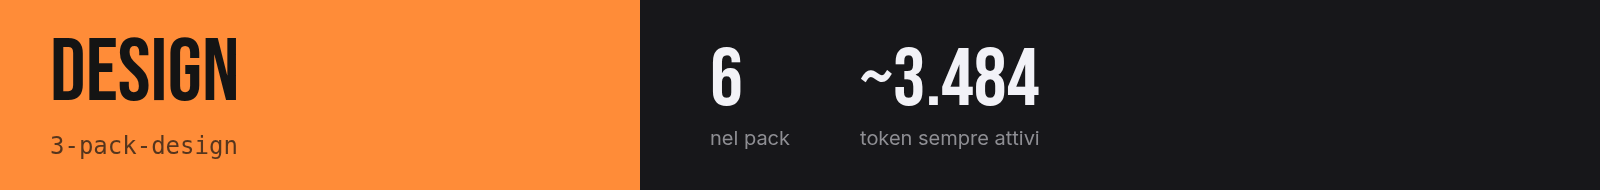
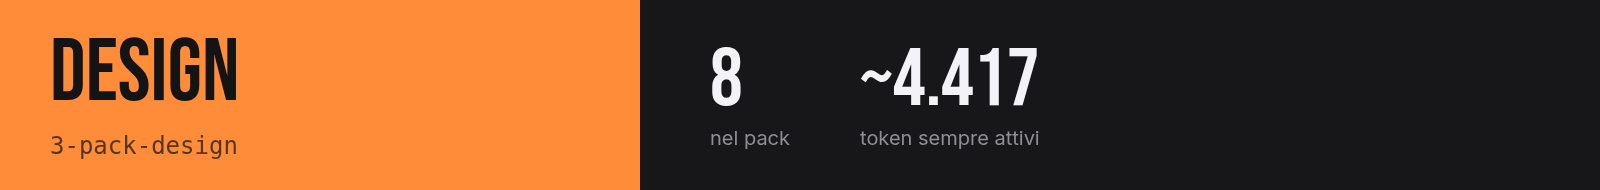
feat: add awwwards-mcp and awwwards-skills to the Design pack
Claude-Session: https://claude.ai/code/session_015vXQvcgbemsZy1L9YqWUro

Changed region(s): [[0.5625, 0.2368, 0.6562, 0.5526], [0.4375, 0.3158, 0.4688, 0.4211]]

diff --git a/README.it.md b/README.it.md
@@ -32,14 +32,14 @@ claude plugin install <plugin>@giofornari      # aggiungi --scope project per in
 claude plugin list                             # verifica: <plugin>@giofornari risulta abilitato
 ```
 
-Poi `/reload-plugins` o riavvia la sessione. I nomi dei plugin sono nelle tabelle qui sotto, oppure `claude plugin list --available --json`. Prima leggi i [Prerequisiti](#prerequisiti) per `codegraph`, `graphify`, `camoufox`, `agent-reach` e `openmontage`.
+Poi `/reload-plugins` o riavvia la sessione. I nomi dei plugin sono nelle tabelle qui sotto, oppure `claude plugin list --available --json`. Prima leggi i [Prerequisiti](#prerequisiti) per `codegraph`, `awwwards-mcp`, `graphify`, `camoufox`, `agent-reach` e `openmontage`.
 
 ## Come funziona
 
 | Percorso | Ruolo |
 |---|---|
 | `.claude-plugin/marketplace.json` | Il catalogo e unica fonte di verità: prima i pack, poi i plugin per categoria |
-| `plugins/` | Solo ciò che è mio: gli 8 manifest dei pack, l'essenziale `fundamentals`, `codegraph` (wrapper MCP), `camoufox` (server MCP), `graphify` (skill di setup) |
+| `plugins/` | Solo ciò che è mio: gli 8 manifest dei pack, l'essenziale `fundamentals`, `codegraph` e `awwwards-mcp` (wrapper MCP), `camoufox` (server MCP), `graphify` (skill di setup) |
 | `docs/` | Le immagini di questo README |
 
 Le voci sono di cinque tipi:
@@ -60,7 +60,7 @@ Le voci sono di cinque tipi:
 |---|---|---|
 | `1-pack-fundamentals` | 8 plugin | ~3.704 |
 | `2-pack-context-memory` | 4 plugin | ~3.710 |
-| `3-pack-design` | 6 plugin | ~3.484 |
+| `3-pack-design` | 8 plugin | ~4.417 |
 | `4-pack-design-advanced` | 4 plugin | ~1.481 |
 | `5-pack-learning` | 4 plugin | ~1.648 |
 | `6-pack-research` | 4 plugin | ~1.214 |
@@ -129,6 +129,8 @@ Nel pack c'è anche `claude-mem`. Viene dal suo marketplace (`thedotmack`), elen
 | [`ui-ux-pro-max`](https://github.com/nextlevelbuilder/ui-ux-pro-max-skill) | Intelligenza di design: stili, palette, tipografia e linee guida UX consultabili | 7 skill | ~709 |
 | [`made-to-stick`](https://github.com/wondelai/skills/tree/HEAD/made-to-stick) | Scrivi messaggi che vengono capiti, ricordati e portano all'azione con la checklist SUCCESs | 1 skill | ~158 |
 | [`benjitaylor-skills`](https://github.com/benjitaylor/skills) | Stageshow: interfacce di prodotto finte ma credibili, come immagini fisse, card di funzionalità, demo con cursore e bento grid, in React | 1 skill | ~160 |
+| [`awwwards-mcp`](./plugins/awwwards-mcp) | Awwwards MCP: ispirazione di design dai siti premiati, con screenshot reali, DNA del design e catture dal vivo | MCP | ~0 |
+| [`awwwards-skills`](https://github.com/INSANE0777/awwwards-skills) | Skill per awwwards-mcp: ricreare un sito, studio del movimento, ciclo per sezioni, DESIGN.md, setup e riparazione | 8 skill | ~933 |
 
 ### Design Advanced
 
@@ -205,6 +207,7 @@ Nel pack c'è anche `claude-mem`. Viene dal suo marketplace (`thedotmack`), elen
 ## Prerequisiti
 
 - `codegraph`: serve la sua CLI, `npm install -g @colbymchenry/codegraph`. Il plugin registra solo il server MCP.
+- `awwwards-mcp`: serve Node 22.13+. Il plugin esegue `npx -y awwwards-mcp`, che copre gli strumenti di ricerca e analisi. Gli strumenti di cattura e registrazione richiedono anche Playwright e ffmpeg-static installati globalmente; la skill `awwwards-setup` ti guida.
 - `fundamentals`: l'hook che carica `discipline` prima della prima modifica al codice richiede `python3` nel PATH. Senza, l'hook non fa nulla e la skill funziona comunque quando la invochi.
 - `claude-mem`: aggiungi prima il suo marketplace, `/plugin marketplace add thedotmack/claude-mem`.
 - `graphify`: serve `uv`. La sua skill installa la CLI con l'installer di Graphify.
@@ -237,4 +240,4 @@ Nessuna sorgente è bloccata e nessun manifest imposta una `version`, quindi ogn
 
 ## Licenze
 
-Ogni plugin mantiene la licenza e gli autori originali. `openmontage` è AGPL-3.0, `education-agent-skills` è CC BY-SA 4.0 e `andrej-karpathy-skills` non ne dichiara una. `remotion` è MIT come plugin, ma il framework Remotion ha una licenza propria: gratis per singoli e piccoli team, a pagamento per le aziende più grandi. Il contenuto originale di questo repo (manifest, server `camoufox`, skill `graphify`, wrapper `codegraph`) è MIT. Anche `fundamentals` è MIT; le sue skill sono riscritte da donatori MIT e `plugins/fundamentals/NOTICE` li nomina uno per uno. Un donatore, `andrej-karpathy-skills`, non ha un file LICENSE e dichiara solo MIT.
+Ogni plugin mantiene la licenza e gli autori originali. `openmontage` è AGPL-3.0, `education-agent-skills` è CC BY-SA 4.0 e `andrej-karpathy-skills` non ne dichiara una. `remotion` è MIT come plugin, ma il framework Remotion ha una licenza propria: gratis per singoli e piccoli team, a pagamento per le aziende più grandi. Il contenuto originale di questo repo (manifest, server `camoufox`, skill `graphify`, wrapper `codegraph` e `awwwards-mcp`) è MIT. Anche `fundamentals` è MIT; le sue skill sono riscritte da donatori MIT e `plugins/fundamentals/NOTICE` li nomina uno per uno. Un donatore, `andrej-karpathy-skills`, non ha un file LICENSE e dichiara solo MIT.

diff --git a/README.md b/README.md
@@ -32,14 +32,14 @@ claude plugin install <plugin>@giofornari      # add --scope project to install 
 claude plugin list                             # verify: <plugin>@giofornari is enabled
 ```
 
-Then `/reload-plugins` or restart the session. Plugin names are in the tables below, or run `claude plugin list --available --json`. Check [Prerequisites](#prerequisites) first for `codegraph`, `graphify`, `camoufox`, `agent-reach` and `openmontage`.
+Then `/reload-plugins` or restart the session. Plugin names are in the tables below, or run `claude plugin list --available --json`. Check [Prerequisites](#prerequisites) first for `codegraph`, `awwwards-mcp`, `graphify`, `camoufox`, `agent-reach` and `openmontage`.
 
 ## How it works
 
 | Path | Role |
 |---|---|
 | `.claude-plugin/marketplace.json` | The catalog and single source of truth: packs first, then plugins by category |
-| `plugins/` | Only what is mine: the 8 pack manifests, the `fundamentals` essential, `codegraph` (MCP wrapper), `camoufox` (MCP server), `graphify` (setup skill) |
+| `plugins/` | Only what is mine: the 8 pack manifests, the `fundamentals` essential, `codegraph` and `awwwards-mcp` (MCP wrappers), `camoufox` (MCP server), `graphify` (setup skill) |
 | `docs/` | The images in this README |
 
 Entries come in five kinds:
@@ -60,7 +60,7 @@ Entries come in five kinds:
 |---|---|---|
 | `1-pack-fundamentals` | 8 plugins | ~3,704 |
 | `2-pack-context-memory` | 4 plugins | ~3,710 |
-| `3-pack-design` | 6 plugins | ~3,484 |
+| `3-pack-design` | 8 plugins | ~4,417 |
 | `4-pack-design-advanced` | 4 plugins | ~1,481 |
 | `5-pack-learning` | 4 plugins | ~1,648 |
 | `6-pack-research` | 4 plugins | ~1,214 |
@@ -129,6 +129,8 @@ Plugins tagged `bonus`, the two full-repo plugins and the plugins that left the 
 | [`ui-ux-pro-max`](https://github.com/nextlevelbuilder/ui-ux-pro-max-skill) | Design intelligence: searchable styles, palettes, typography and UX guidelines | 7 skills | ~709 |
 | [`made-to-stick`](https://github.com/wondelai/skills/tree/HEAD/made-to-stick) | Craft messages that are understood, remembered and drive action with the SUCCESs checklist | 1 skill | ~158 |
 | [`benjitaylor-skills`](https://github.com/benjitaylor/skills) | Stageshow: faux product UI as stills, feature cards, cursor demos and bento grids, built in React | 1 skill | ~160 |
+| [`awwwards-mcp`](./plugins/awwwards-mcp) | Awwwards MCP: design inspiration from award-winning sites, with real screenshots, design DNA and live captures | MCP | ~0 |
+| [`awwwards-skills`](https://github.com/INSANE0777/awwwards-skills) | Skills for awwwards-mcp: recreate a site, motion study, section loop, DESIGN.md, setup and repair | 8 skills | ~933 |
 
 ### Design Advanced
 
@@ -205,6 +207,7 @@ Plugins tagged `bonus`, the two full-repo plugins and the plugins that left the 
 ## Prerequisites
 
 - `codegraph`: needs its CLI, `npm install -g @colbymchenry/codegraph`. The plugin only registers the MCP server.
+- `awwwards-mcp`: needs Node 22.13+. The plugin runs `npx -y awwwards-mcp`, which covers the search and analysis tools. The capture and record tools also need Playwright and ffmpeg-static installed globally; the `awwwards-setup` skill walks through it.
 - `fundamentals`: the hook that loads `discipline` before the first code edit needs `python3` on the PATH. Without it the hook does nothing and the skill still works when invoked.
 - `claude-mem`: add its marketplace first, `/plugin marketplace add thedotmack/claude-mem`.
 - `graphify`: needs `uv`. Its skill installs the CLI through Graphify's own installer.
@@ -237,4 +240,4 @@ No source is pinned and no manifest sets a `version`, so every upstream release 
 
 ## Licenses
 
-Each plugin keeps its upstream license and authors. `openmontage` is AGPL-3.0, `education-agent-skills` is CC BY-SA 4.0 and `andrej-karpathy-skills` declares none. `remotion` is MIT as a plugin, but the Remotion framework has its own license: free for individuals and small teams, paid for larger companies. The original content here (manifests, `camoufox` server, `graphify` skill, `codegraph` wrapper) is MIT. `fundamentals` is MIT too; its skills are rewritten from MIT donors, and `plugins/fundamentals/NOTICE` names each one. One donor, `andrej-karpathy-skills`, ships no LICENSE file and only declares MIT.
+Each plugin keeps its upstream license and authors. `openmontage` is AGPL-3.0, `education-agent-skills` is CC BY-SA 4.0 and `andrej-karpathy-skills` declares none. `remotion` is MIT as a plugin, but the Remotion framework has its own license: free for individuals and small teams, paid for larger companies. The original content here (manifests, `camoufox` server, `graphify` skill, `codegraph` and `awwwards-mcp` wrappers) is MIT. `fundamentals` is MIT too; its skills are rewritten from MIT donors, and `plugins/fundamentals/NOTICE` names each one. One donor, `andrej-karpathy-skills`, ships no LICENSE file and only declares MIT.
